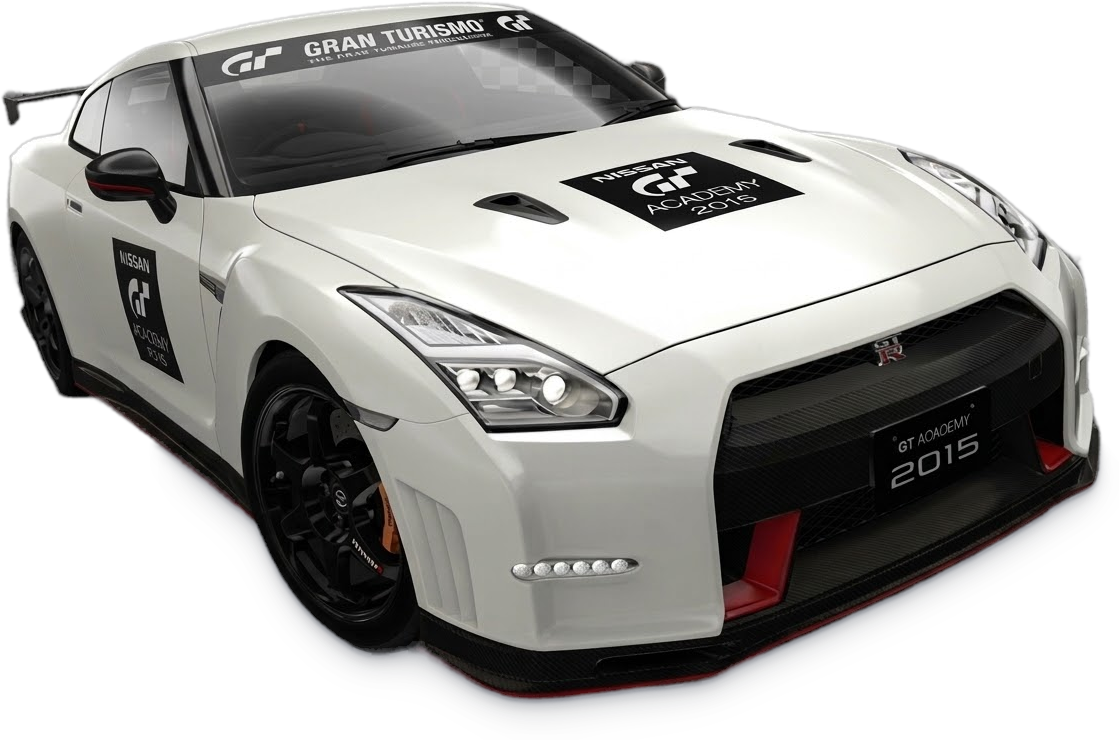
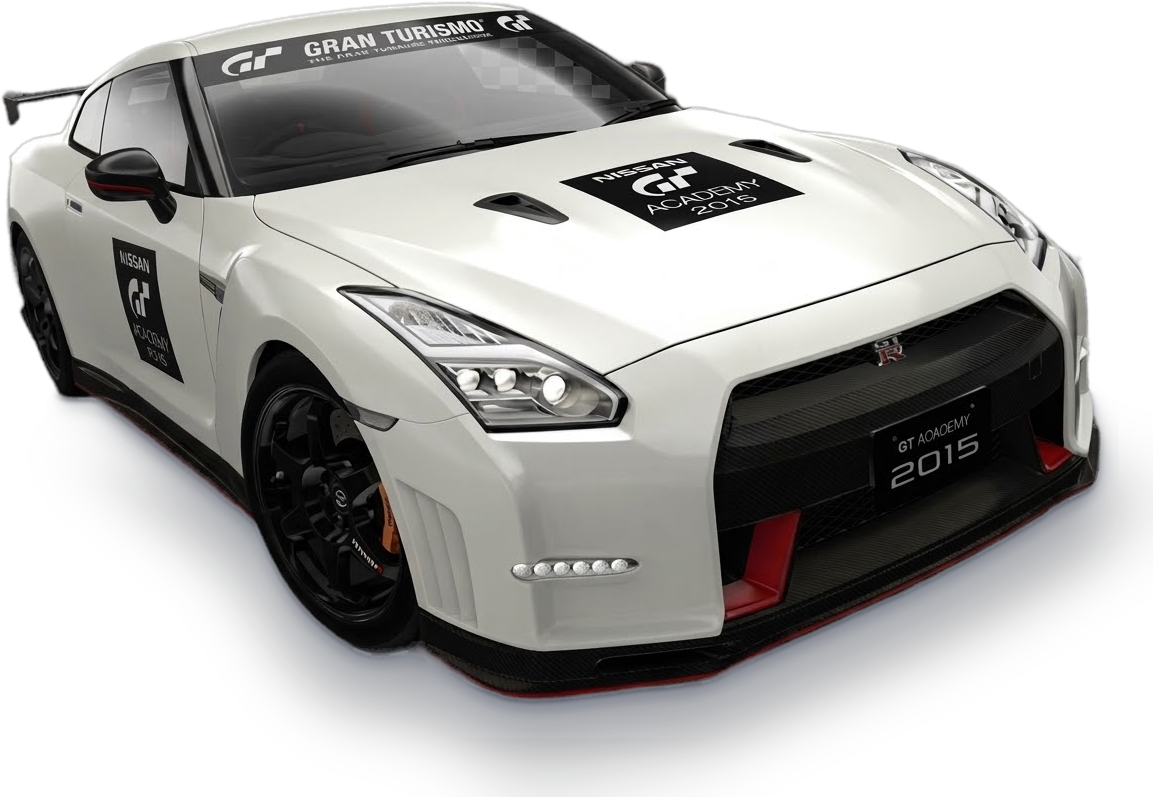
feat(hero): intensify floor contact shadow and depth on Nissan GT-R

diff --git a/assets/css/tournament.css b/assets/css/tournament.css
@@ -2048,7 +2048,7 @@ body.paddock-page {
   height: auto;
   display: block;
   object-fit: contain;
-  filter: drop-shadow(0 20px 28px rgba(15, 23, 42, 0.14));
+  filter: drop-shadow(0 25px 35px rgba(15, 23, 42, 0.22));
   transform-origin: left center;
   margin-left: -40px;
   transition: transform 0.4s cubic-bezier(0.16, 1, 0.3, 1), filter 0.4s ease;
@@ -2056,7 +2056,7 @@ body.paddock-page {
 
 .hero-car-glass-stage:hover .hero-car-isolated-img {
   transform: scale(1.025) translateY(-2px);
-  filter: drop-shadow(0 26px 36px rgba(15, 23, 42, 0.18));
+  filter: drop-shadow(0 32px 45px rgba(15, 23, 42, 0.28));
 }
 
 /* Stage Bottom Telemetry */
